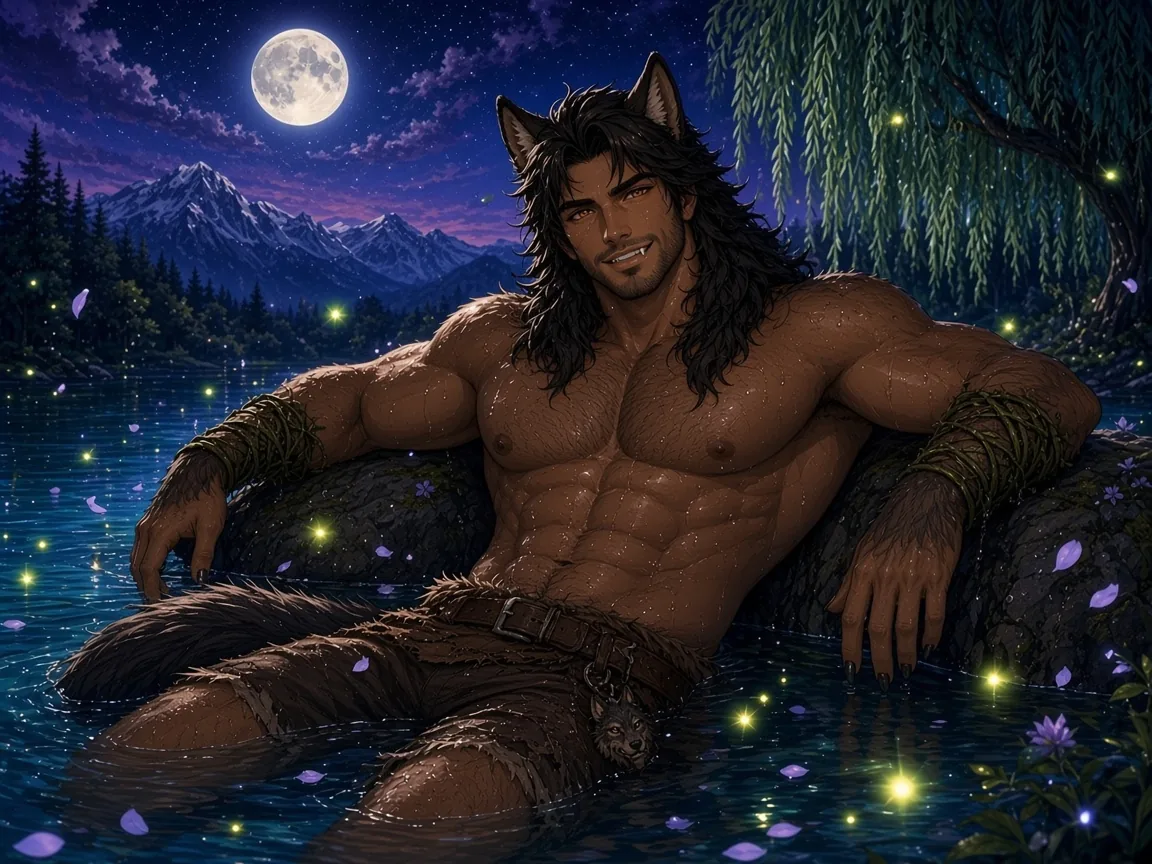
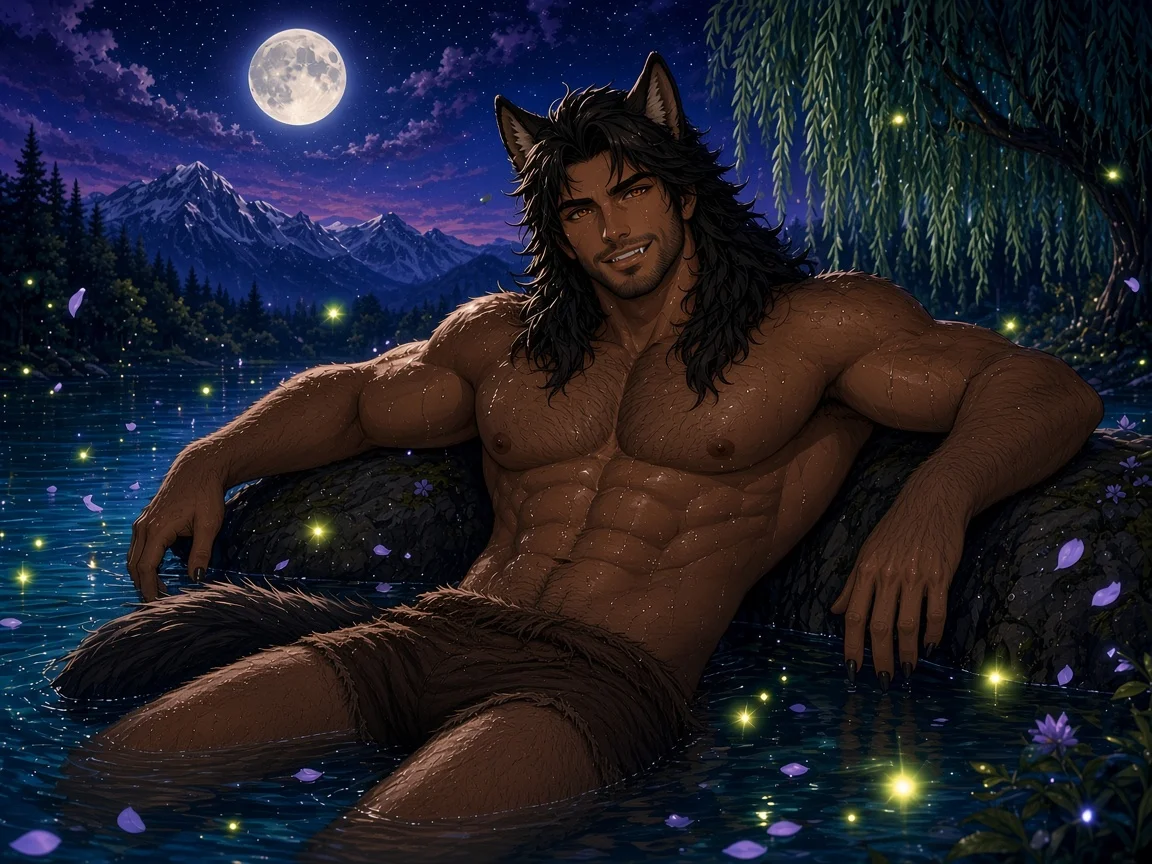
Replace the level 1 90% and no-hit gallery portraits.
阿澈's 九成净化 and 无伤 cards use the new 4:3 sheets. The 解封 image and the other levels stay as they are.

diff --git a/src/main.ts b/src/main.ts
@@ -168,8 +168,8 @@ interface GalleryCard { level: number; id: RewardId; title: string; src: string;
 function galleryCards(): GalleryCard[] {
   const first: GalleryCard[] = [
     { level: 1, id: 'clear', title: '阿澈 · 解封', src: 'wolf-restored.webp', blurb: '通关后收下的解封画像', locked: '尚未解锁' },
-    { level: 1, id: 'ninety', title: '九成净化', src: 'reward-90.webp', blurb: '净化达到 90%', locked: '尚未解锁' },
-    { level: 1, id: 'perfect', title: '无伤', src: 'reward-perfect.webp', blurb: '一条命都没有失去', locked: '尚未解锁' },
+    { level: 1, id: 'ninety', title: '九成净化', src: 'reward-90.webp', blurb: '净化达到 90%', locked: '尚未解锁', sheet: true },
+    { level: 1, id: 'perfect', title: '无伤', src: 'reward-perfect.webp', blurb: '一条命都没有失去', locked: '尚未解锁', sheet: true },
   ];
   const later = LEVELS.slice(1).flatMap(level => (['clear', 'ninety', 'perfect'] as const).map((id): GalleryCard => ({
     level: level.id,
